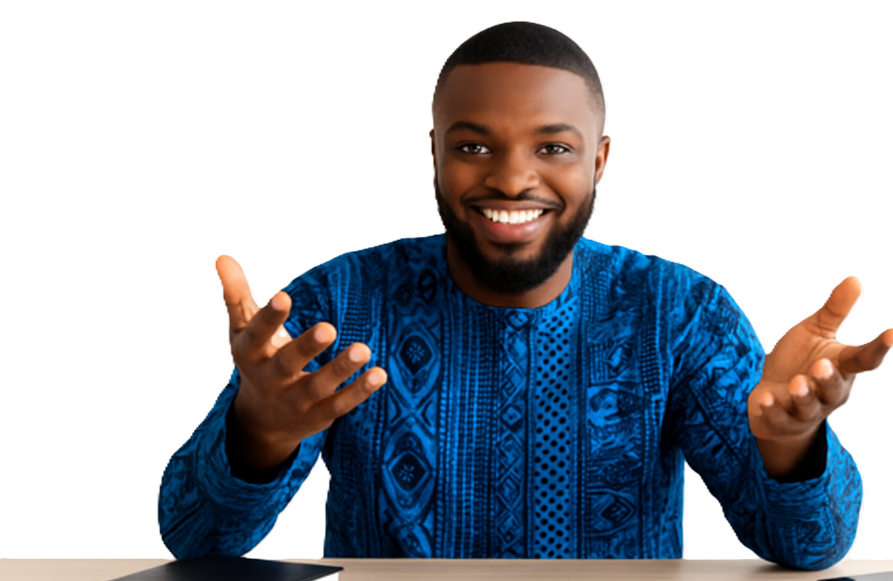
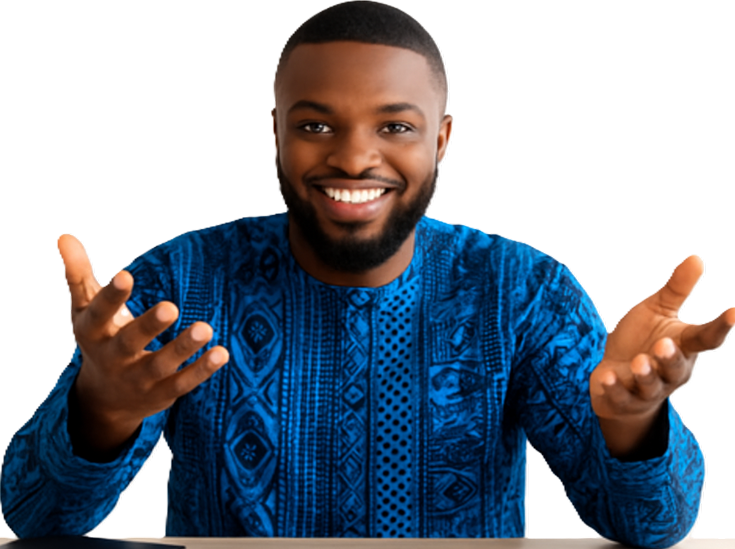
Built the hero section

diff --git a/src/components/sections/Home/HeroSection.tsx b/src/components/sections/Home/HeroSection.tsx
@@ -1,7 +1,75 @@
 import React from "react";
+import Image from "next/image";
+import { Button } from "@/components/ui/button";
+
+import herosectionperson from "../../../../public/herosectionperson.png";
+import CircularChart from "../../../../public/CircularChart.svg";
 
 const HeroSection = () => {
-  return <div>HeroSection</div>;
+  return (
+    <section className="w-full bg-[#F9FAFB] ">
+      <div className="max-w-[90rem] mx-auto ">
+        <div className="grid items-center grid-cols-1 lg:grid-cols-2">
+          {/* Left Content  */}
+          <div className="py-[4.4rem] space-y-14">
+            <h1 className="font-montserrat font-bold text-[30px] md:text-[60px] lg:text-[65px] leading-tight lg:leading-[80px]">
+              <span className="text-hero-navy">Enjoy fast, secure,</span>
+              <br />
+              <span className="text-hero-navy">and </span>
+              <span className="text-hero-cyan">seamless</span>
+              <br />
+              <span className="text-hero-cyan">payment solutions</span>
+            </h1>
+
+            <p className="font-montserrat font-medium text-[20px] md:text-[24px] leading-[28px] md:leading-[30px] text-[rgba(41,39,39,0.72)] max-w-[628px]">
+              Experience payments without boundaries. We offer fast, secure, and
+              frictionless transactions for businesses and individuals. You can
+              focus on growing while we handle the payments.
+            </p>
+
+            <div className="flex flex-wrap gap-4 pt-6">
+              <Button
+                size="lg"
+                className="bg-hero-cyan hover:bg-hero-cyan/90 text-white font-montserrat font-semibold text-[15px] px-6 py-4 h-auto rounded-lg"
+              >
+                Create Free Account
+              </Button>
+              <Button
+                size="lg"
+                variant="outline"
+                className="border-2 border-hero-navy text-hero-navy hover:bg-gray-50 font-montserrat font-semibold text-[15px] px- py-4 h-auto rounded-lg"
+              >
+                Learn more
+              </Button>
+            </div>
+          </div>
+
+          {/* Right Content */}
+          <div className="relative flex items-end justify-center h-full lg:justify-end">
+            <div className="relative w-full">
+              <Image
+                src={herosectionperson}
+                alt="Payment solutions professional"
+                width={700}
+                height={700}
+                className="w-full h-auto"
+                priority
+              />
+            </div>
+
+            <Image
+              src={CircularChart}
+              alt="Payment solutions professional"
+              width={300}
+              height={300}
+              className="absolute bottom-0 -translate-x-1/2 left-1/2"
+              priority
+            />
+          </div>
+        </div>
+      </div>
+    </section>
+  );
 };
 
 export default HeroSection;

diff --git a/src/app/globals.css b/src/app/globals.css
@@ -1,3 +1,5 @@
+@import url('https://fonts.googleapis.com/css2?family=Montserrat:wght@500;600;700&display=swap');
+
 @tailwind base;
 @tailwind components;
 @tailwind utilities;
@@ -12,6 +14,11 @@
     --primary-foreground: 0 0% 100%;
 
     --radius: 0.3rem;
+    
+    /* Hero section colors */
+    --hero-navy: 211 72% 33%;
+    --hero-cyan: 194 64% 58%;
+    --hero-bg: 210 20% 98%;
   }
 }
 
@@ -22,5 +29,31 @@
 
   body {
     @apply bg-background text-foreground;
+  }
+}
+
+@layer utilities {
+  .font-montserrat {
+    font-family: 'Montserrat', sans-serif;
+  }
+  
+  .text-hero-navy {
+    color: #204d88;
+  }
+  
+  .text-hero-cyan {
+    color: #44C3E3;
+  }
+  
+  .bg-hero-cyan {
+    background-color: #44C3E3;
+  }
+  
+  .bg-hero-navy {
+    background-color: #204d88;
+  }
+  
+  .border-hero-navy {
+    border-color: #204d88;
   }
 }

diff --git a/src/components/layout/Navigation.tsx b/src/components/layout/Navigation.tsx
@@ -8,7 +8,7 @@ import Link from "next/link";
 
 const Navigation = () => {
   return (
-    <div className="w-full py-5">
+    <div className="w-full py-5 bg-[#F9FAFB]">
       <div className="max-w-[90rem] mx-auto flex justify-between items-center">
         <div className="flex flex-col items-end justify-end">
           <Image src={primaryLogo} alt="TGI Pay Logo" width={120} height={40} />
